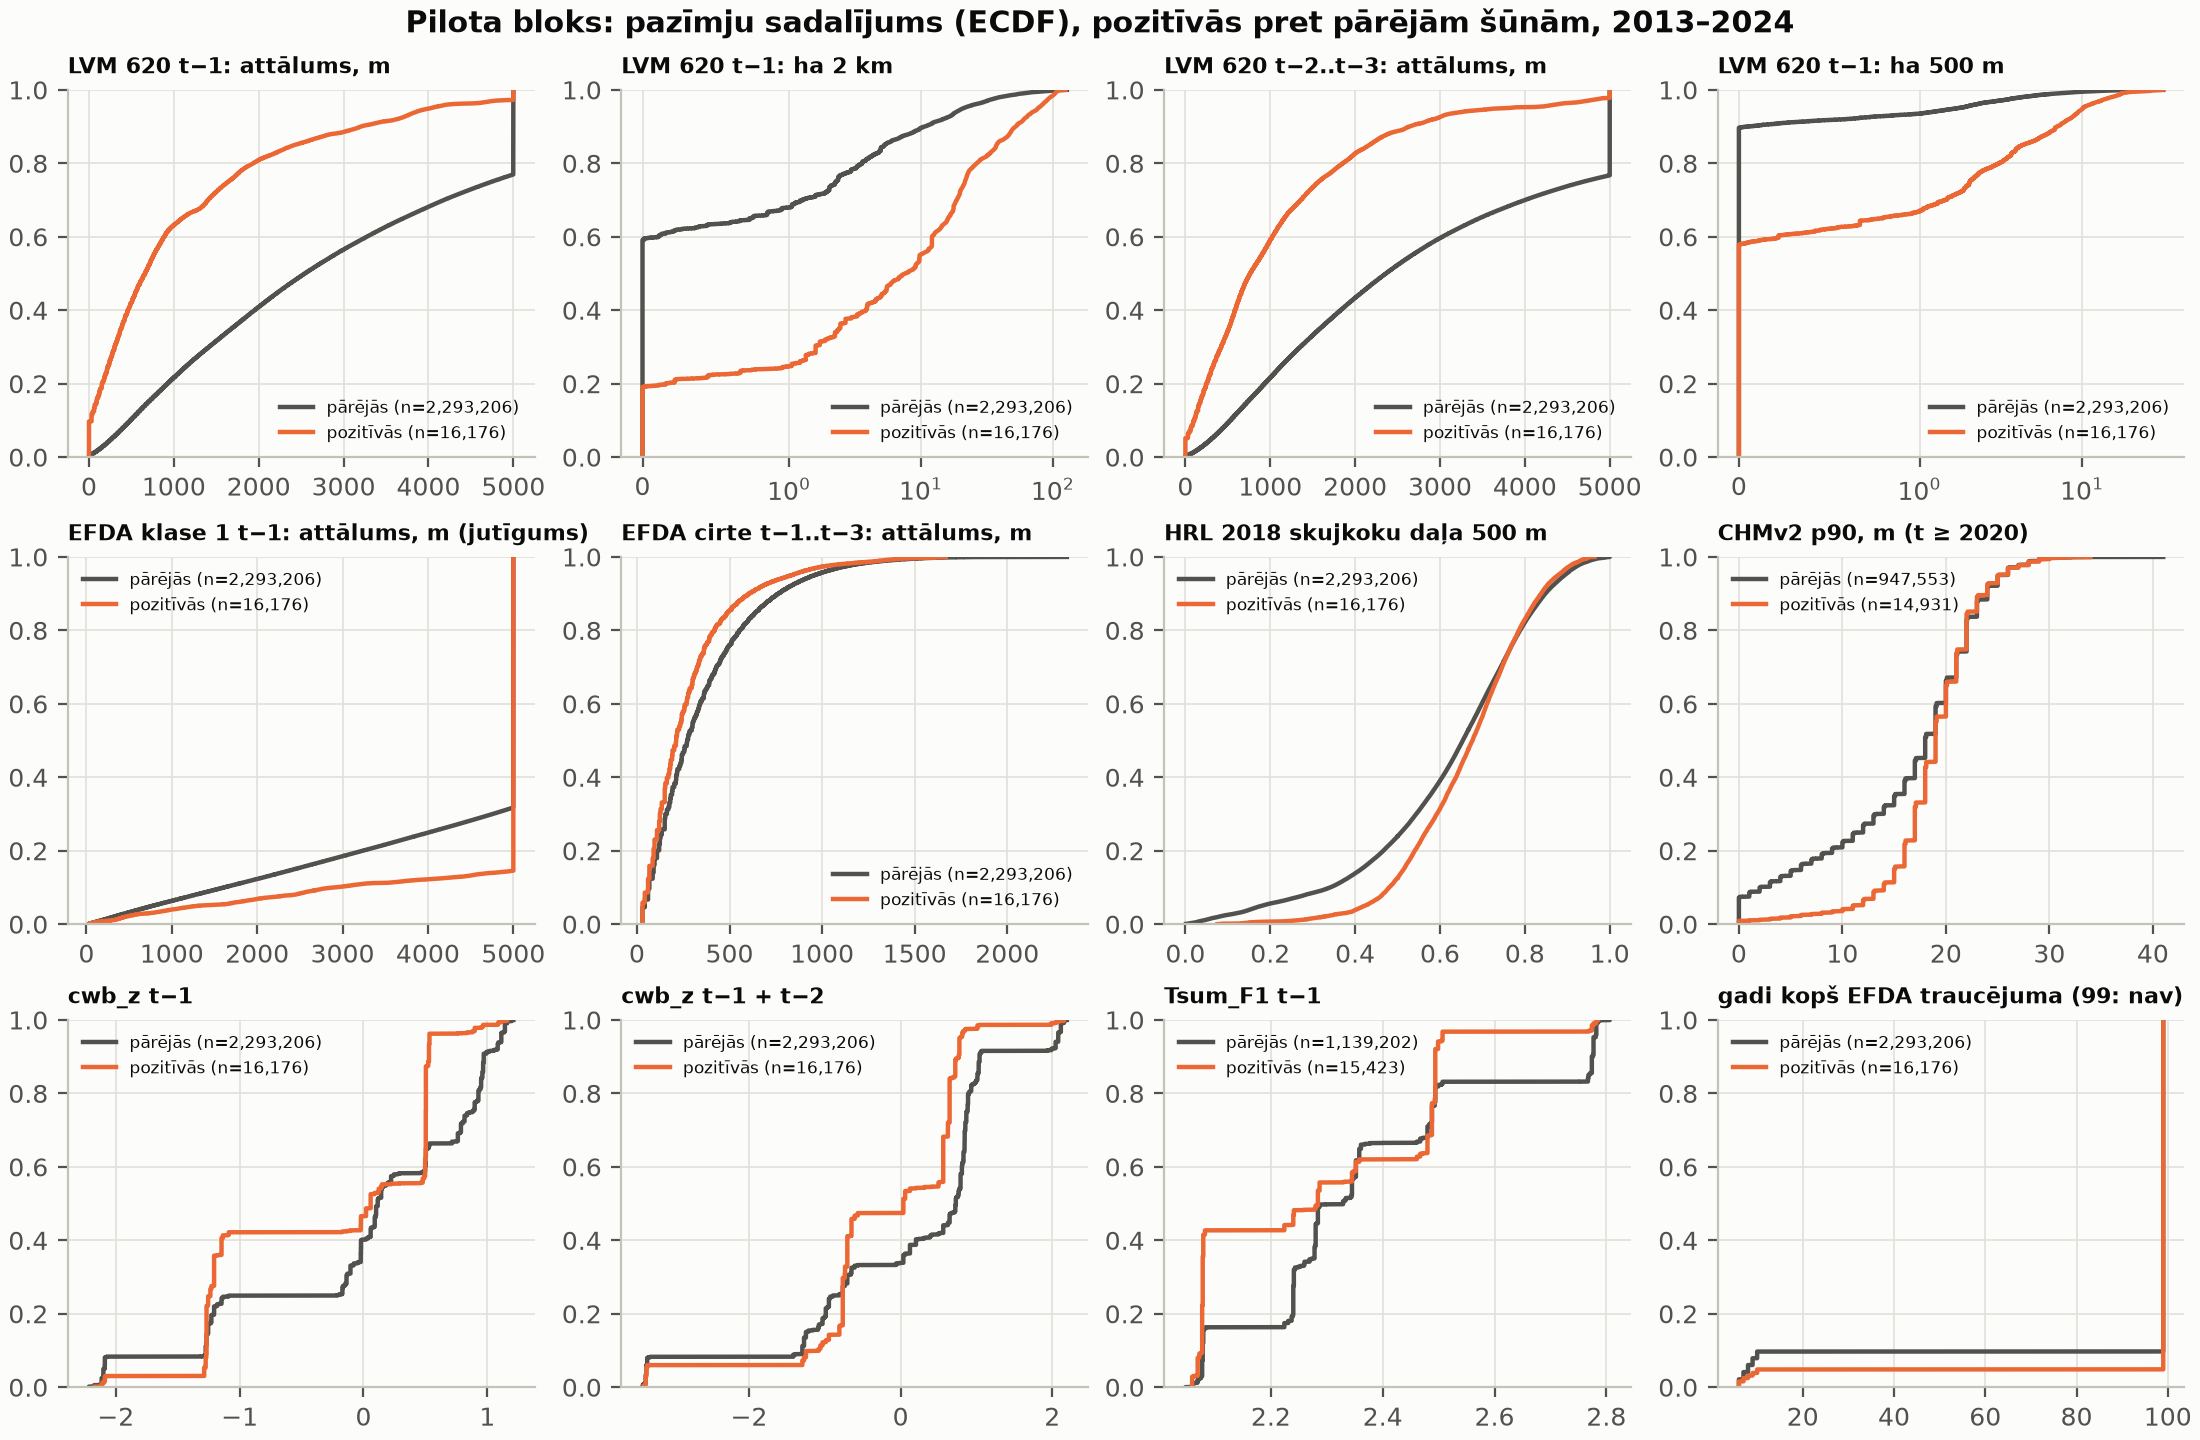
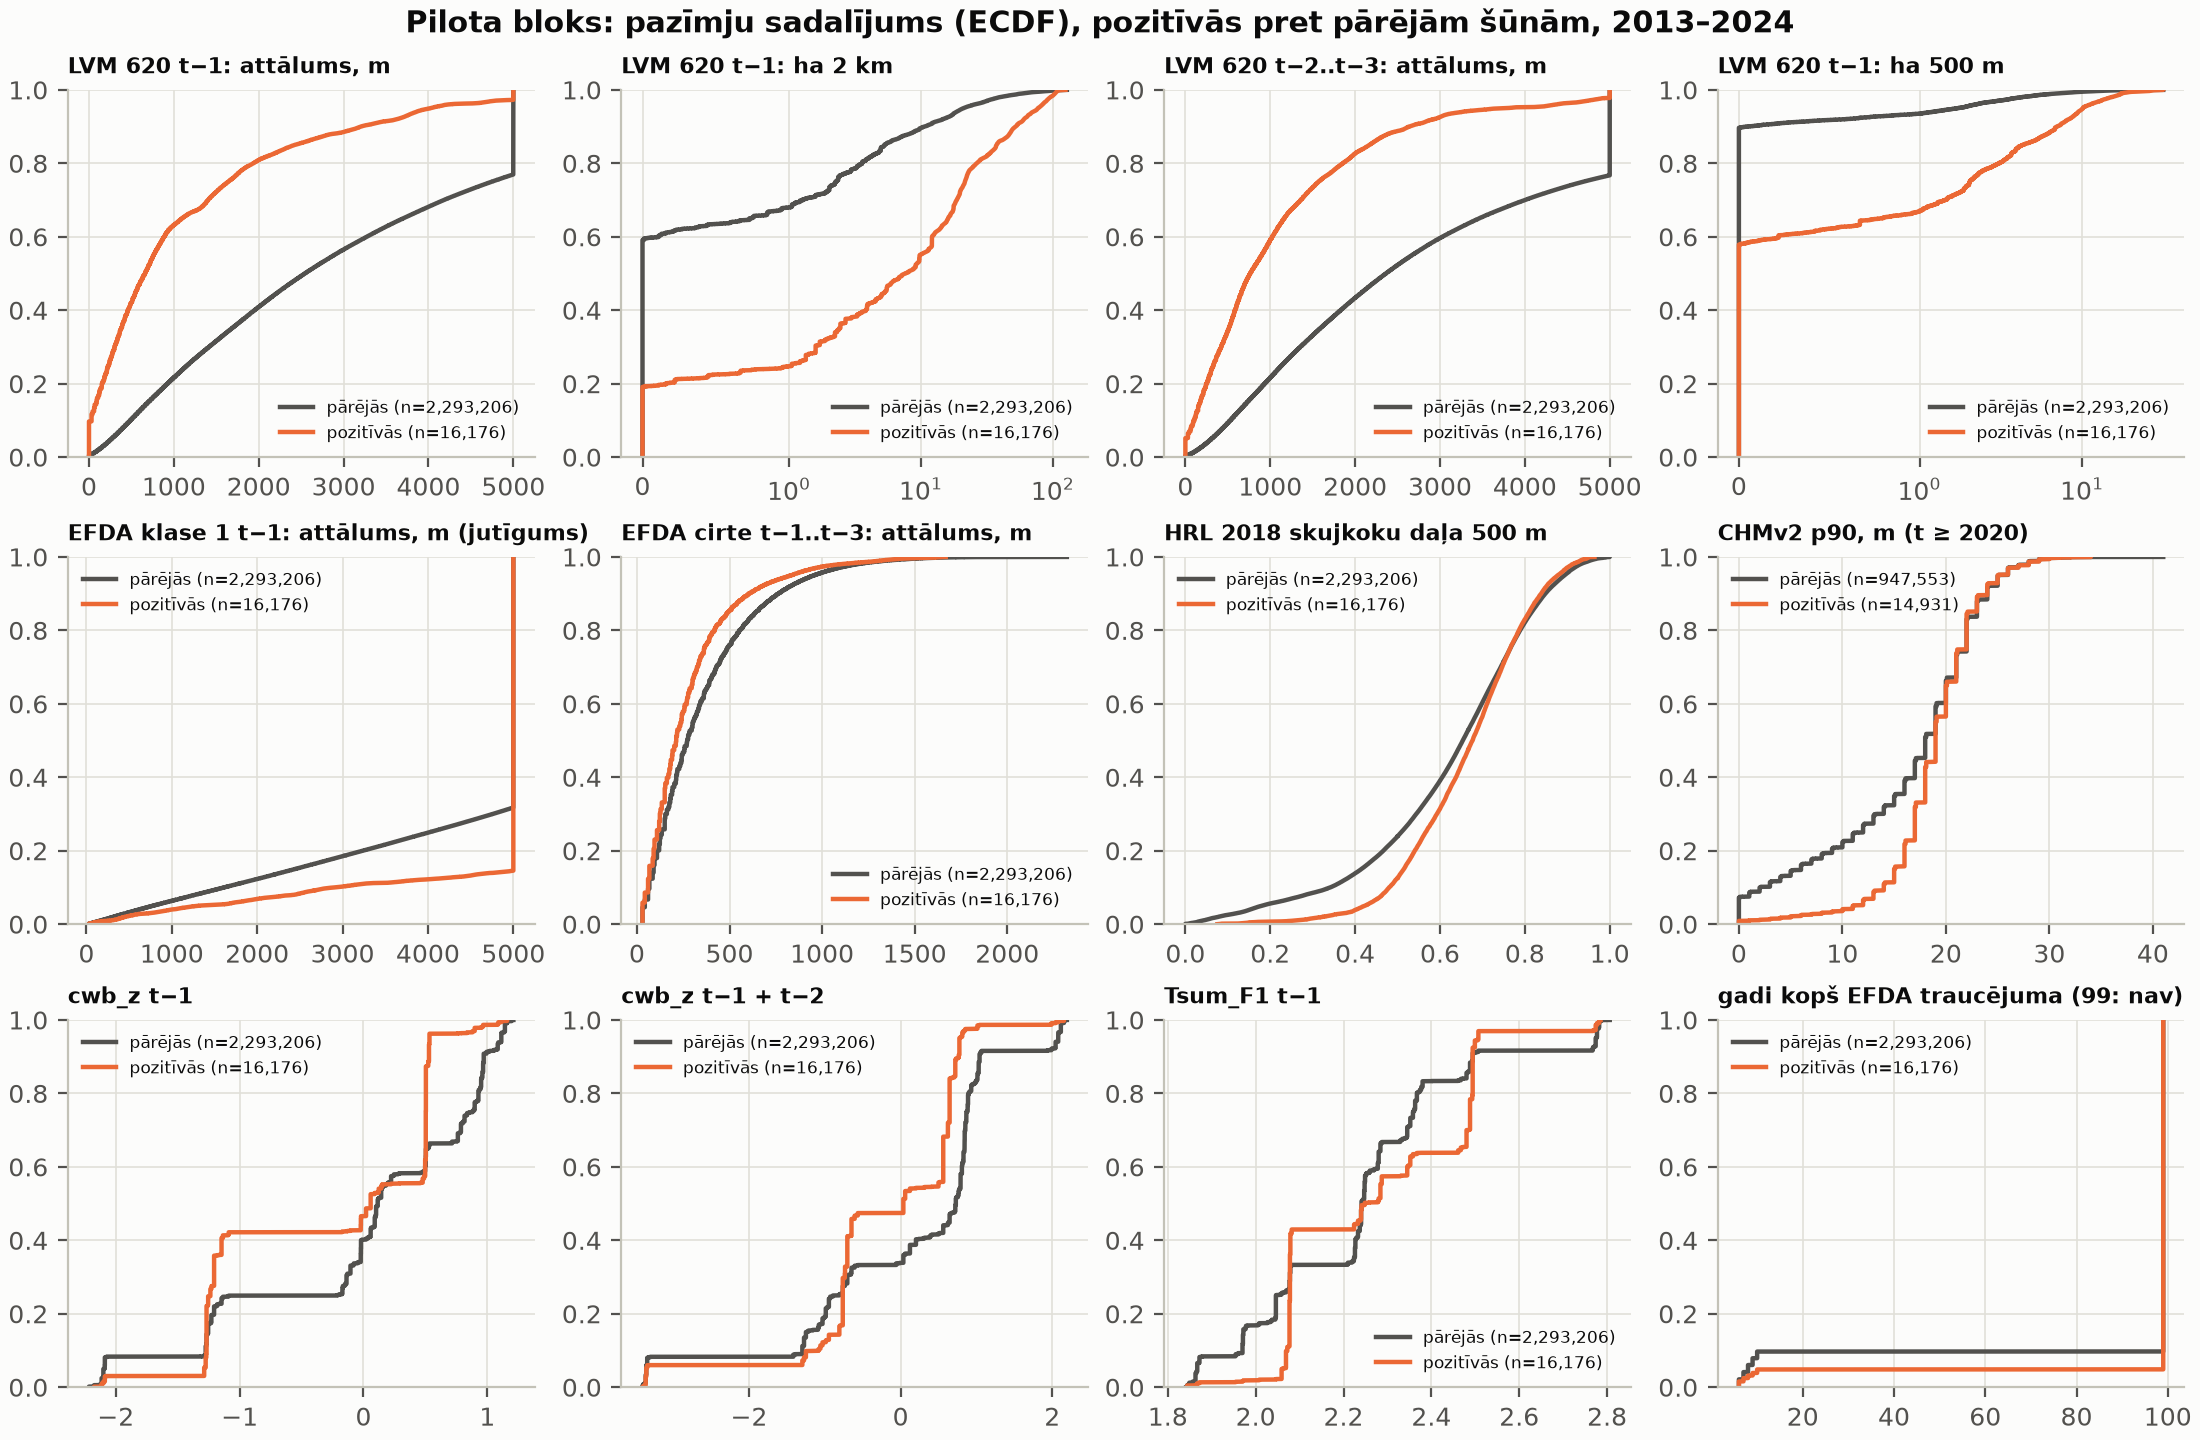
Stage 4/6a: Tsum 2011-2017 done (extra CDS download, RITY-2 2011-2017, Kalsnava temperature check), pilot rerun with full Tsum t-1

Changed region(s): [[0.5255, 0.7188, 0.7418, 1.0], [0.6182, 0.9062, 0.7418, 1.0]]

diff --git a/docs/RM_6a_PAZIMES.md b/docs/RM_6a_PAZIMES.md
@@ -140,6 +140,8 @@ Visi gadi kopā, apmācības kopa. Mediāna [IQR]; SMD = standartizēta vidējo 
 | CHMv2 daļa > 5 m | 0,97 [0,80; 1,00] | 0,94 [0,44; 1,00] | 0,46 |
 | cwb_z t−1 | 0,06 [−1,24; 0,50] | 0,12 [−0,21; 0,88] | −0,31 |
 | cwb_z t−1 + t−2 | 0,04 [−0,76; 0,65] | 0,73 [−0,81; 0,87] | −0,24 |
+| Tsum_F1 t−1 (visi gadi 2013–2024, 2026-11-05) | 2,25 [2,08; 2,49] | 2,24 [2,05; 2,36] | +0,14 |
+| izlidošanas DOY t−1 (jutīgums) | 109 [101; 111] | 111 [108; 116] | −0,61 |
 
 - **Mizgraužu spiediens ir spēcīgākā atšķirība** (|SMD| 0,7–1,05), arī **t−2 … t−3 grupā bez t−1**.
 - **Pa gadiem tas nav vienmērīgi** (`pilot_feature_distributions_by_year.csv`):
@@ -153,6 +155,9 @@ Visi gadi kopā, apmācības kopa. Mediāna [IQR]; SMD = standartizēta vidējo 
   (−0,25), D / DR malas pazīme gandrīz nemainās (svaigas cirtes ≤ 60 m ir retas).
 - **Klimats bloka iekšienē nav informatīvs:** 20 km blokā ir tikai 2–3 ERA5-Land šūnas, tāpēc gada ietvaros vērtība ir
   gandrīz konstanta. Kopējā SMD ir tikai gadu sastāvs. Klimata pazīmēm vajag visu Latviju vai vairākus blokus [N].
+  - Pārbaudīts arī ar pilnu Tsum (2026-11-05): gada ietvaros Tsum_F1 t−1 starpkvartiļu diapazons pārējām šūnām
+    ir ≤ 0,014 (piem., 2023: 2,077–2,079). Gada SMD (−1,15 … +1,39) tāpēc ir skaitliski nestabils un nav
+    interpretējams [P skaitļi, N interpretācija].
 
 ![Pazīmes](rm_figures/rm6a_pilots_pazimes.png)
 
@@ -177,24 +182,49 @@ Visi gadi kopā, apmācības kopa. Mediāna [IQR]; SMD = standartizēta vidējo 
 
 - **DTM (slīpums, TPI):** LĢIA DTM 20 m 7z ir 399 MB > 200 MB, un vajag sistēmas 7-Zip → vajag lietotāja atļauju.
 - **Picea varbūtība:** pilotā nav lejupielādēta (Zenodo slānis; apjoms blokam nav novērtēts).
-- **Tsum t−1 gadiem 2013–2018:** gaida papildu lejupielādi (I–III, X 2011–2017); sk. 9. sadaļu.
+- ~~Tsum t−1 gadiem 2013–2018~~ — izdarīts 2026-11-05 (9. sadaļa).
 - Literatūra (Kärvemo u. c. 2014; Stadelmann u. c. 2013): DOI un bibliogrāfija pārbaudīta, saturs nav atvērts → [N]
   (`DATU_AVOTI.md`).
 
-## 9. Tsum papildu lejupielāde 2011–2017 (A daļa) — PROCESĀ [P]
+## 9. Tsum papildu lejupielāde 2011–2017 (A daļa) — PABEIGTA 2026-11-05 [P]
 
 - **Mērķis:** Tsum t−1 / t−2 LVM 620 etiķetēm no 2013. gada.
 - **Pieprasījumi:** I–III un X 2011–2017 = 28 mēneši + 7 `acc00_YYYY_11`; novērtējums pirms sākšanas ~0,5 GB (< 1 GB).
   Mainīgie tie paši 8: tikai `t2m` prasītu izmaiņas 4 apstrādes funkcijās.
-- **Gaita:** serverī, `tmux`, secīgi, atsākšana pēc job ID; auth kļūdu nav. Sākts 2026-11-04 13:15 UTC.
-- **Stāvoklis 2026-11-04 15:53 UTC:** 3 / 35 gatavi (h_2011_01–03, 17–20 MB katrs). CDS rindas gaidīšana pieaug: 18 s
-  → 1 883 s → 3 029 s; darbs aizņem 9–80 min. Ar šādu rindu atlikušais laiks ir ~1–2 diennaktis [N].
-- **Kods gatavs** (commits 15395dc): `pheno_extra_years: [2011, 2017]`. Dienas kubs tiek pārbūvēts, kad parādās jauni
-  mēneši; `cds-latvia --step daily`, pēc tam `--step pheno` rēķina tikai 2011–2017.
-- **Pēc lejupielādes:**
-  1. RITY-2 2011–2017 serverī (~8 min);
-  2. uz laptopu tikai `output/rm4_klimats/latvia/*`;
-  3. Kalsnavas pārbaude: Open-Meteo prototipā 2011–2017 ir tikai IV–IX, tāpēc RITY-2 salīdzināt nevar. Salīdzinās
-     dienas T_max / T_min IV–IX;
-  4. pilota tabula no jauna; tad Tsum_F1 t−1 būs arī gadiem 2013–2018. Šobrīd Tsum t−1 ir tikai t ≥ 2019:
-     n = 15 423 pozitīvās / 1 139 202 pārējās.
+- **Gaita:** serverī, `tmux`, secīgi, atsākšana pēc job ID. Sākts 2026-11-04 13:15 UTC, beigas 2026-11-05 08:44 UTC.
+  - 35 / 35 faili, **533 MB** (diskā 509 MiB); darbu laiks kopā 19,3 h, no tā CDS rindā 13,6 h.
+  - Auth / licences kļūdu nav. Viena `HTTP 502 Bad Gateway`, ko klients pats atkārtoja ("attempt 1 of 500"); mūsu
+    kods neko no jauna neiesniedza.
+- **Apstrāde serverī** (commits 15395dc, `pheno_extra_years: [2011, 2017]`):
+  - `cds-latvia --step daily`: 2 min 08 s, RSS 325 MB; 2011–2017 dienas kubi pārbūvēti ar mēnešiem I–X (304 / 305 dienas);
+  - `cds-latvia --step pheno`: tikai 2011–2017 (pārējie gadi no `parts/`), 63–74 s / gadā, kopā 8 min 31 s, RSS 355 MB;
+  - uz laptopu kopēts tikai `output/rm4_klimats/latvia/*`.
+- **RITY-2 2011–2017 (946 šūnas ar centru Latvijā; `lv_rity2_years.csv`):** izlidošana sasniegta visās šūnās;
+
+| Gads | Izlidošanas DOY p10 / mediāna / p90 | Tsum_F1 min / vid. / maks. | Tsum_F2 vid. |
+|---|---|---|---|
+| 2011 | 113 / 115 / 116 | 1,96 / 2,19 / 2,37 | 1,20 |
+| 2012 | 114 / 116 / 118 | 1,60 / 1,85 / 2,07 | 0,86 |
+| 2013 | 122 / 124 / 126 | 1,89 / 2,18 / 2,40 | 1,19 |
+| 2014 | 108 / 110 / 111 | 1,83 / 2,07 / 2,28 | 1,08 |
+| 2015 | 115 / 116 / 117 | 1,58 / 1,80 / 2,02 | 0,81 |
+| 2016 | 103 / 119 / 123 | 1,85 / 2,08 / 2,28 | 1,08 |
+| 2017 | 124 / 125 / 134 | 1,38 / 1,65 / 1,92 | 0,66 |
+
+  Salīdzinājumam: 2018 vid. Tsum_F1 2,56, 2024 — 2,55. 2017 ir zemākā vērtība visā 2011–2026 rindā.
+- **Kalsnavas pārbaude** (šūna 56,70 / 25,90, UTC dienas, pret Open-Meteo ERA5 mezglu 56,75 / 25,75, Rīgas dienas;
+  IV–IX, jo prototipā 2011–2017 nav I–III un X, tāpēc RITY-2 salīdzināt nevar;
+  `lv_kalsnava_2011_2017_temperature_vs_openmeteo.csv`):
+
+| Periods | n dienas | T_max starpība / r | T_min starpība / r | T_mean starpība / r |
+|---|---|---|---|---|
+| 2011–2017 | 1 281 | +0,05 °C / 0,991 | **+1,42 °C** / 0,979 | +0,61 °C / 0,995 |
+| 2018–2025 (atsauce, tas pats kods) | 1 464 | +0,04 °C / 0,992 | **+1,35 °C** / 0,983 | +0,62 °C / 0,996 |
+
+  - Pa gadiem 2011–2017 T_min starpība ir +1,24 … +1,61 °C, T_max −0,18 … +0,22 °C.
+  - Novirze ir **vienāda abos periodos**, tātad jaunie dati ir saskanīgi ar 2018–2026 [P]. T_min novirzes cēlonis
+    (cita šūna un augstums, 0,1° pret 0,25°, UTC pret vietējo dienu) nav pārbaudīts [N]. 4. posmā Tsum starpība
+    Kalsnavā bija +0,19 (2018–2026).
+- **Pilota tabula no jauna** (`features-pilot`, CHMv2 no kešatmiņas, 79 s): Tsum_F1 t−1 tagad ir visiem gadiem
+  2013–2024 (n = 16 176 pozitīvās / 2 293 206 pārējās; iepriekš tikai t ≥ 2019: 15 423 / 1 139 202). Etiķetes,
+  spiediena, uzņēmības un noplūdes ieraksts nemainījās (maks. nobīde −1).

diff --git a/docs/DATU_AVOTI.md b/docs/DATU_AVOTI.md
@@ -184,6 +184,10 @@ Sk. `docs/RM_4b_SAUSUMS.md`.
 - Apjoms: 28 mēneši + 7 `acc00_YYYY_11` pieprasījumi; novērtējums ~0,5 GB pirms sākšanas.
 - Mainīgie tie paši 8 (tikai `t2m` prasītu izmaiņas 4 apstrādes funkcijās).
 - Kataloga beigas 2026-10-29.
+- **Pabeigta 2026-11-05 08:44 UTC** (sākta 2026-11-04 13:15 UTC): 35 / 35 faili, **533 MB** (diskā 509 MiB;
+  `h_2011..2017_01–03, _10`, `acc00_2011..2017_11`); darbi kopā 19,3 h, no tā CDS rindā 13,6 h. Viens
+  `HTTP 502`, ko klients pats atkārtoja; auth / licences kļūdu nav. Dati tikai serverī un `cache/` (nav git).
+- Atvasinātais: RITY-2 2011–2017 `output/rm4_klimats/latvia/` (sk. RM_6a 9. sadaļu).
 
 **Literatūra (pārbaudīta 2026-11-04, Crossref / OpenAlex):**
 - **Kärvemo, S., Van Boeckel, T. P., Gilbert, M., Grégoire, J.-C., Schroeder, M. (2014).** Large-scale risk mapping of

diff --git a/docs/RM_4_KLIMATS_FENOLOGIJA.md b/docs/RM_4_KLIMATS_FENOLOGIJA.md
@@ -453,5 +453,8 @@ vidējā (dienās), slīpums un korelācijas.
 - 2026. gads ir nepilns (temperatūra līdz 27.10, akumulētie līdz 26.10); ūdens bilanci tas neietekmē, jo IV–IX ir
   pilns.
 - Sausuma salīdzinājums: `docs/RM_4b_SAUSUMS.md` (2026-11-04). 6. posms nav sākts.
+- 2026-11-05: RITY-2 arī 2011–2017 (papildu I–III, X lejupielāde; `pheno_extra_years`). Gadu tabulā
+  `lv_rity2_years.csv` ir 2011–2026; kartes paliek 2018–2026. Rezultāti un Kalsnavas temperatūru pārbaude:
+  `docs/RM_6a_PAZIMES.md` 9. sadaļa.
 - 4. posms pieņemts (lietotājs 2026-11-04). Piekrastes vēlākā izlidošana — [N] jūras pavasara vēsums (lietotāja
   piezīme: fizikāli loģiski); „DR agrāk” bija pieņēmums, nevis prasība.
